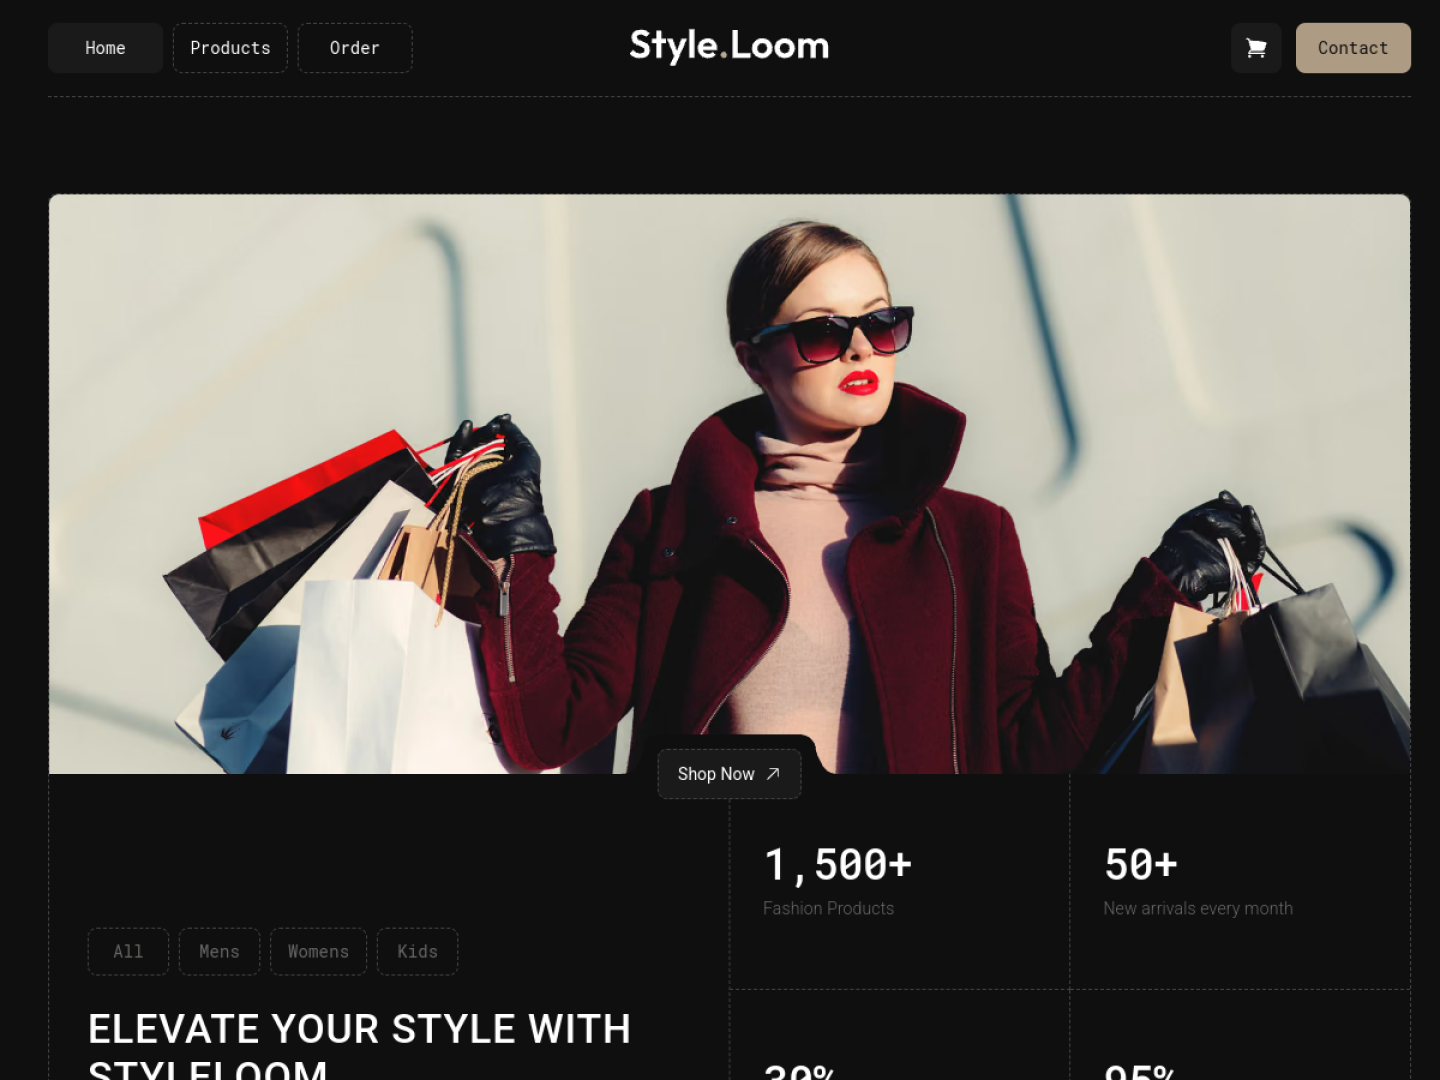
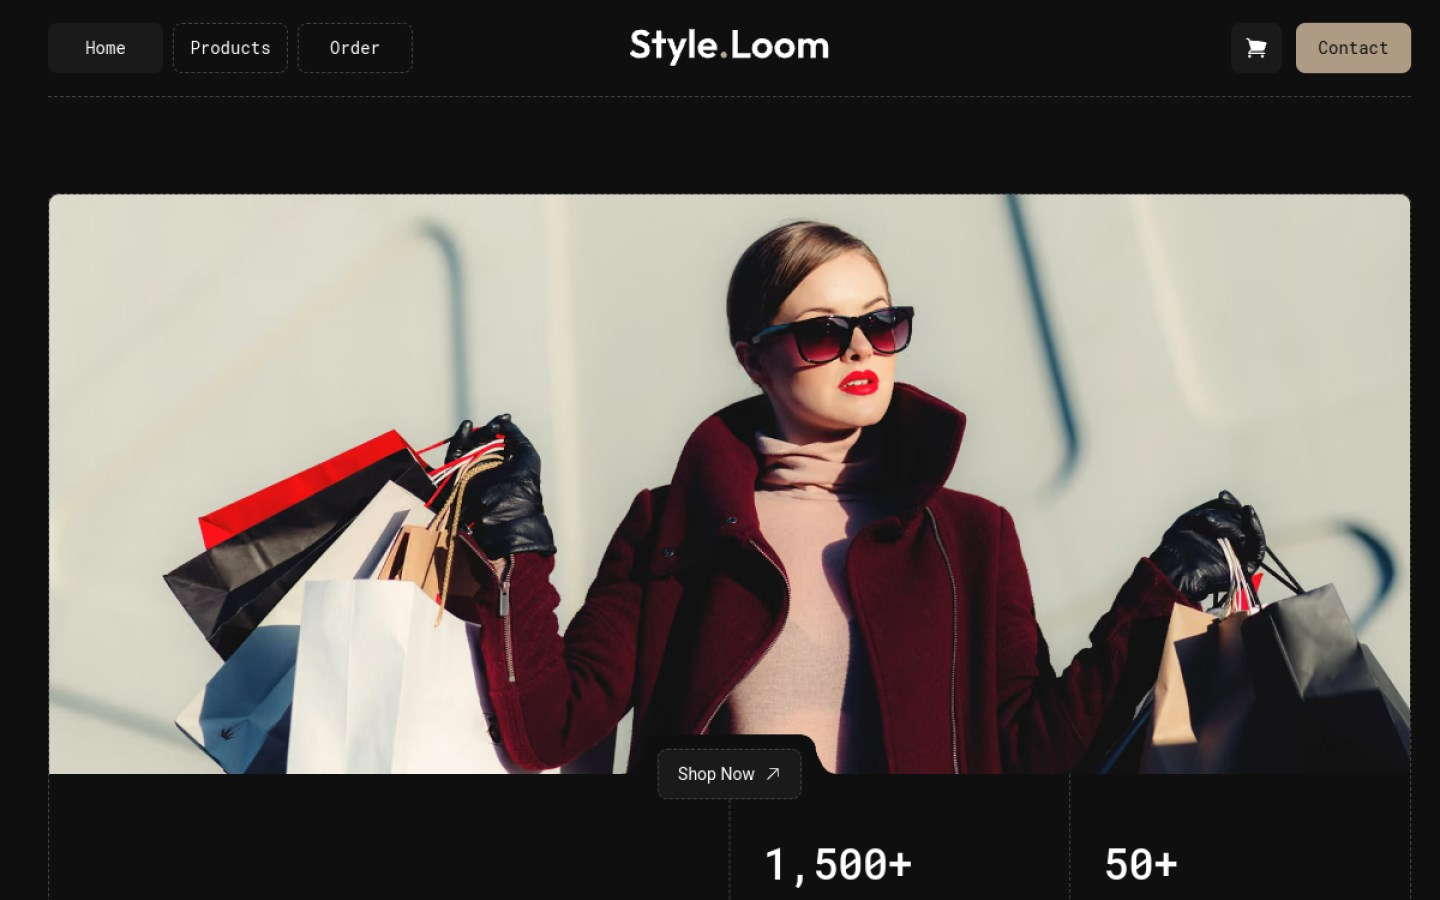
Revert experience stack, drop LinkedIn, compact role cards, fill StyleLoom covers.

diff --git a/src/components/home/selected-work.tsx b/src/components/home/selected-work.tsx
@@ -24,14 +24,6 @@ const SelectedWork = () => {
     setActive((current) => (current === next ? current : next));
   });
 
-  const jump = (index: number) => {
-    const node = sectionRef.current;
-    if (!node) return;
-    const span = node.offsetHeight - window.innerHeight;
-    const top = node.offsetTop + (span * index) / Math.max(1, projects.length - 1);
-    window.scrollTo({ top, behavior: reduce ? "auto" : "smooth" });
-  };
-
   if (reduce) {
     return (
       <section id="work" className="border-t border-border py-20">
@@ -39,7 +31,12 @@ const SelectedWork = () => {
           <h2 className="display text-5xl">Selected work</h2>
           {projects.map((project) => (
             <Link key={project.slug} href={`/work/${project.slug}`} className="panel block overflow-hidden">
-              <ProjectMedia cover={project.cover} title={project.title} className="aspect-[16/10] rounded-none border-0" />
+              <ProjectMedia
+                cover={project.cover}
+                title={project.title}
+                className="aspect-[16/10] rounded-none border-0"
+                imageClassName="!object-cover object-center"
+              />
               <div className="p-6">
                 <h3 className="text-3xl">{project.title}</h3>
                 <p className="mt-2 text-muted-foreground">{project.summary}</p>
@@ -70,7 +67,12 @@ const SelectedWork = () => {
               href={`/work/${item.slug}`}
               className="panel w-[82%] shrink-0 snap-start overflow-hidden sm:w-[70%]"
             >
-              <ProjectMedia cover={item.cover} title={item.title} className="aspect-[16/10] rounded-none border-0" />
+              <ProjectMedia
+                cover={item.cover}
+                title={item.title}
+                className="aspect-[16/10] rounded-none border-0"
+                imageClassName="!object-cover object-center"
+              />
               <div className="p-5">
                 <p className="kicker text-lime">{item.label}</p>
                 <h3 className="mt-2 text-2xl">{item.title}</h3>
@@ -96,16 +98,15 @@ const SelectedWork = () => {
                 const on = index === (hovered ?? active);
                 return (
                   <li key={item.slug} className="border-b border-white/10">
-                    <button
-                      type="button"
-                      onClick={() => jump(index)}
+                    <Link
+                      href={`/work/${item.slug}`}
                       onMouseEnter={() => setHovered(index)}
                       onFocus={() => setHovered(index)}
                       className={`flex w-full items-baseline justify-between gap-4 py-2.5 text-left transition-colors ${on ? "text-foreground" : "text-foreground/35 hover:text-foreground/70"}`}
                     >
                       <span className={`display text-[clamp(1.35rem,2.4vw,2.6rem)] ${on ? "text-lime" : ""}`}>{item.title}</span>
                       <span className="font-mono text-[10px] tracking-[0.16em] uppercase">{item.year}</span>
-                    </button>
+                    </Link>
                   </li>
                 );
               })}
@@ -115,14 +116,13 @@ const SelectedWork = () => {
           <div className="lg:col-span-7">
             <Link href={`/work/${project.slug}`} data-cursor="Open" className="panel relative block overflow-hidden">
               <TechCorners />
-              <div className="relative" style={{ height: "min(38vh, 360px)" }}>
-                <ProjectMedia
-                  cover={project.cover}
-                  title={project.title}
-                  priority={active === 0}
-                  className="aspect-auto h-full w-full rounded-none border-0"
-                />
-              </div>
+              <ProjectMedia
+                cover={project.cover}
+                title={project.title}
+                priority={active === 0}
+                className="aspect-[16/10] w-full rounded-none border-0"
+                imageClassName="!object-cover object-center"
+              />
               <div className="hero-scan pointer-events-none absolute inset-x-0 top-0 h-16 bg-gradient-to-b from-transparent via-lime/10 to-transparent" />
             </Link>
             <div className="mt-4 flex items-end justify-between gap-6">

diff --git a/src/app/experience/page.tsx b/src/app/experience/page.tsx
@@ -29,22 +29,20 @@ export default function ExperiencePage() {
         </PageWrapper>
       </section>
 
-      <section className="py-16 md:py-24">
-        <PageWrapper className="space-y-4">
-          {experience.map((item, index) => (
-            <Rise key={`${item.org}-${item.dates}`} delay={index * 0.04}>
-              <article className="panel grid gap-4 p-6 sm:grid-cols-12 sm:p-8">
-                <div className="sm:col-span-4">
-                  <p className="font-mono text-[11px] tracking-[0.16em] text-lime uppercase">{item.dates}</p>
-                  <p className="mt-3 text-sm text-muted-foreground">{item.place}</p>
-                </div>
-                <div className="min-w-0 sm:col-span-8">
-                  <h2 className="text-2xl tracking-[-0.04em] sm:text-3xl">{item.title}</h2>
-                  <p className="mt-1 text-lime">{item.org}</p>
-                  <p className="mt-4 max-w-2xl text-muted-foreground">{item.body}</p>
-                </div>
-              </article>
-            </Rise>
+      <section className="py-12 md:py-16">
+        <PageWrapper className="space-y-3">
+          {experience.map((item) => (
+            <article key={`${item.org}-${item.dates}`} className="panel grid gap-2 px-5 py-4 sm:grid-cols-12 sm:px-6 sm:py-5">
+              <div className="sm:col-span-4">
+                <p className="font-mono text-[11px] tracking-[0.16em] text-lime uppercase">{item.dates}</p>
+                <p className="mt-1 text-sm text-muted-foreground">{item.place}</p>
+              </div>
+              <div className="min-w-0 sm:col-span-8">
+                <h2 className="text-lg tracking-[-0.03em] sm:text-xl">{item.title}</h2>
+                <p className="mt-0.5 text-sm text-lime">{item.org}</p>
+                <p className="mt-2 max-w-2xl text-sm text-muted-foreground">{item.body}</p>
+              </div>
+            </article>
           ))}
         </PageWrapper>
       </section>

diff --git a/src/app/work/[slug]/page.tsx b/src/app/work/[slug]/page.tsx
@@ -91,7 +91,7 @@ export default async function ProjectPage({ params }: { params: Promise<Params> 
               priority
               alt={`${project.title} — ${project.screens[0]?.label ?? "interface"}`}
               sizes="(min-width: 1024px) 1280px, 100vw"
-              className="aspect-[16/10] md:aspect-[16/9]"
+              className="aspect-[16/10]"
             />
           </Parallax>
         </div>
@@ -151,7 +151,7 @@ export default async function ProjectPage({ params }: { params: Promise<Params> 
                       cover={project.screens[0].cover}
                       title={project.title}
                       alt={`${project.title} — ${project.screens[0].label}`}
-                      className="aspect-[16/9]"
+                      className="aspect-[16/10]"
                     />
                   </div>
                   <figcaption className="mt-4 flex flex-col gap-2 sm:flex-row sm:items-baseline sm:justify-between">
@@ -239,7 +239,7 @@ export default async function ProjectPage({ params }: { params: Promise<Params> 
                   cover={item.cover}
                   title={item.title}
                   className="w-full rounded-none border-0"
-                  imageClassName="object-cover object-center"
+                  imageClassName="object-contain object-center"
                   sizes="(min-width: 768px) 33vw, 100vw"
                 />
                 <div className="p-5">

diff --git a/src/app/about/page.tsx b/src/app/about/page.tsx
@@ -87,17 +87,17 @@ export default function AboutPage() {
           <div className="mt-12 grid gap-4">
             {experience.map((item, index) => (
               <Rise key={`${item.org}-${item.dates}`} delay={index * 0.05}>
-                <article className="panel grid gap-3 p-6 sm:grid-cols-12 sm:p-8">
+                <article className="panel grid gap-2 px-5 py-4 sm:grid-cols-12 sm:px-6 sm:py-5">
                   <p className="font-mono text-[11px] tracking-[0.16em] text-lime uppercase sm:col-span-3">
                     {item.dates}
                   </p>
                   <div className="min-w-0 sm:col-span-9">
-                    <h3 className="text-xl tracking-[-0.03em]">
+                    <h3 className="text-lg tracking-[-0.03em]">
                       {item.title}
                       <span className="text-muted-foreground"> · {item.org}</span>
                     </h3>
-                    <p className="mt-1 text-sm text-muted-foreground">{item.place}</p>
-                    <p className="mt-3 max-w-2xl text-muted-foreground">{item.body}</p>
+                    <p className="mt-0.5 text-sm text-muted-foreground">{item.place}</p>
+                    <p className="mt-2 max-w-2xl text-sm text-muted-foreground">{item.body}</p>
                   </div>
                 </article>
               </Rise>

diff --git a/src/components/home/contact-close.tsx b/src/components/home/contact-close.tsx
@@ -27,22 +27,17 @@ const ContactClose = () => {
           >
             Email
           </a>
-          <a
-            href={site.socials[0].href}
-            target="_blank"
-            rel="noreferrer"
-            className="nav-link outline-none focus-visible:outline focus-visible:outline-2 focus-visible:outline-offset-4 focus-visible:outline-foreground"
-          >
-            LinkedIn
-          </a>
-          <a
-            href={site.socials[2].href}
-            target="_blank"
-            rel="noreferrer"
-            className="nav-link outline-none focus-visible:outline focus-visible:outline-2 focus-visible:outline-offset-4 focus-visible:outline-foreground"
-          >
-            GitHub
-          </a>
+          {site.socials.map((item) => (
+            <a
+              key={item.label}
+              href={item.href}
+              target="_blank"
+              rel="noreferrer"
+              className="nav-link outline-none focus-visible:outline focus-visible:outline-2 focus-visible:outline-offset-4 focus-visible:outline-foreground"
+            >
+              {item.label}
+            </a>
+          ))}
         </div>
       </PageWrapper>
     </section>

diff --git a/src/components/work/archive.tsx b/src/components/work/archive.tsx
@@ -97,7 +97,13 @@ const Archive = () => {
               <Link href={`/work/${current.slug}`} data-cursor="Open" className="group block outline-none">
                 <div className="relative overflow-hidden rounded-[24px] border border-white/10 shadow-[0_24px_70px_rgba(0,0,0,0.35)]">
                   <TechCorners />
-                  <ProjectMedia cover={current.cover} title={current.title} priority className="rounded-none border-0" />
+                  <ProjectMedia
+                    cover={current.cover}
+                    title={current.title}
+                    priority
+                    className="rounded-none border-0"
+                    imageClassName="object-contain object-center"
+                  />
                   <div className="hero-scan pointer-events-none absolute inset-x-0 top-0 h-16 bg-gradient-to-b from-transparent via-lime/10 to-transparent" />
                 </div>
                 <div className="mt-5 flex items-start justify-between gap-6">

diff --git a/src/lib/profile.ts b/src/lib/profile.ts
@@ -165,10 +165,7 @@ export const notes = [
   {
     title: "Three.js particle system",
     body: "A 3D particle system that dances to hand gestures, built with Three.js in Gemini and VS Code.",
-    links: [
-      { label: "X", href: "https://x.com/Charlycourage/status/2020799866583085211" },
-      { label: "LinkedIn", href: "https://www.linkedin.com/in/couragecharles" },
-    ],
+    links: [{ label: "X", href: "https://x.com/Charlycourage/status/2020799866583085211" }],
   },
   {
     title: "Teens in AI",

diff --git a/src/lib/site.ts b/src/lib/site.ts
@@ -19,7 +19,6 @@ export const site = {
     { href: "/contact", label: "Contact" },
   ],
   socials: [
-    { href: "https://www.linkedin.com/in/couragecharles", label: "LinkedIn" },
     { href: "https://www.behance.net/courageeze1", label: "Behance" },
     { href: "https://github.com/couragecharles", label: "GitHub" },
     { href: "https://x.com/Charlycourage", label: "X" },

diff --git a/src/components/work/project-media.tsx b/src/components/work/project-media.tsx
@@ -34,7 +34,7 @@ const ProjectMedia = ({
           fill
           priority={priority}
           quality={90}
-          className={cn("object-cover object-center", imageClassName)}
+          className={cn("object-contain object-center", imageClassName)}
           sizes={sizes}
         />
       )}
